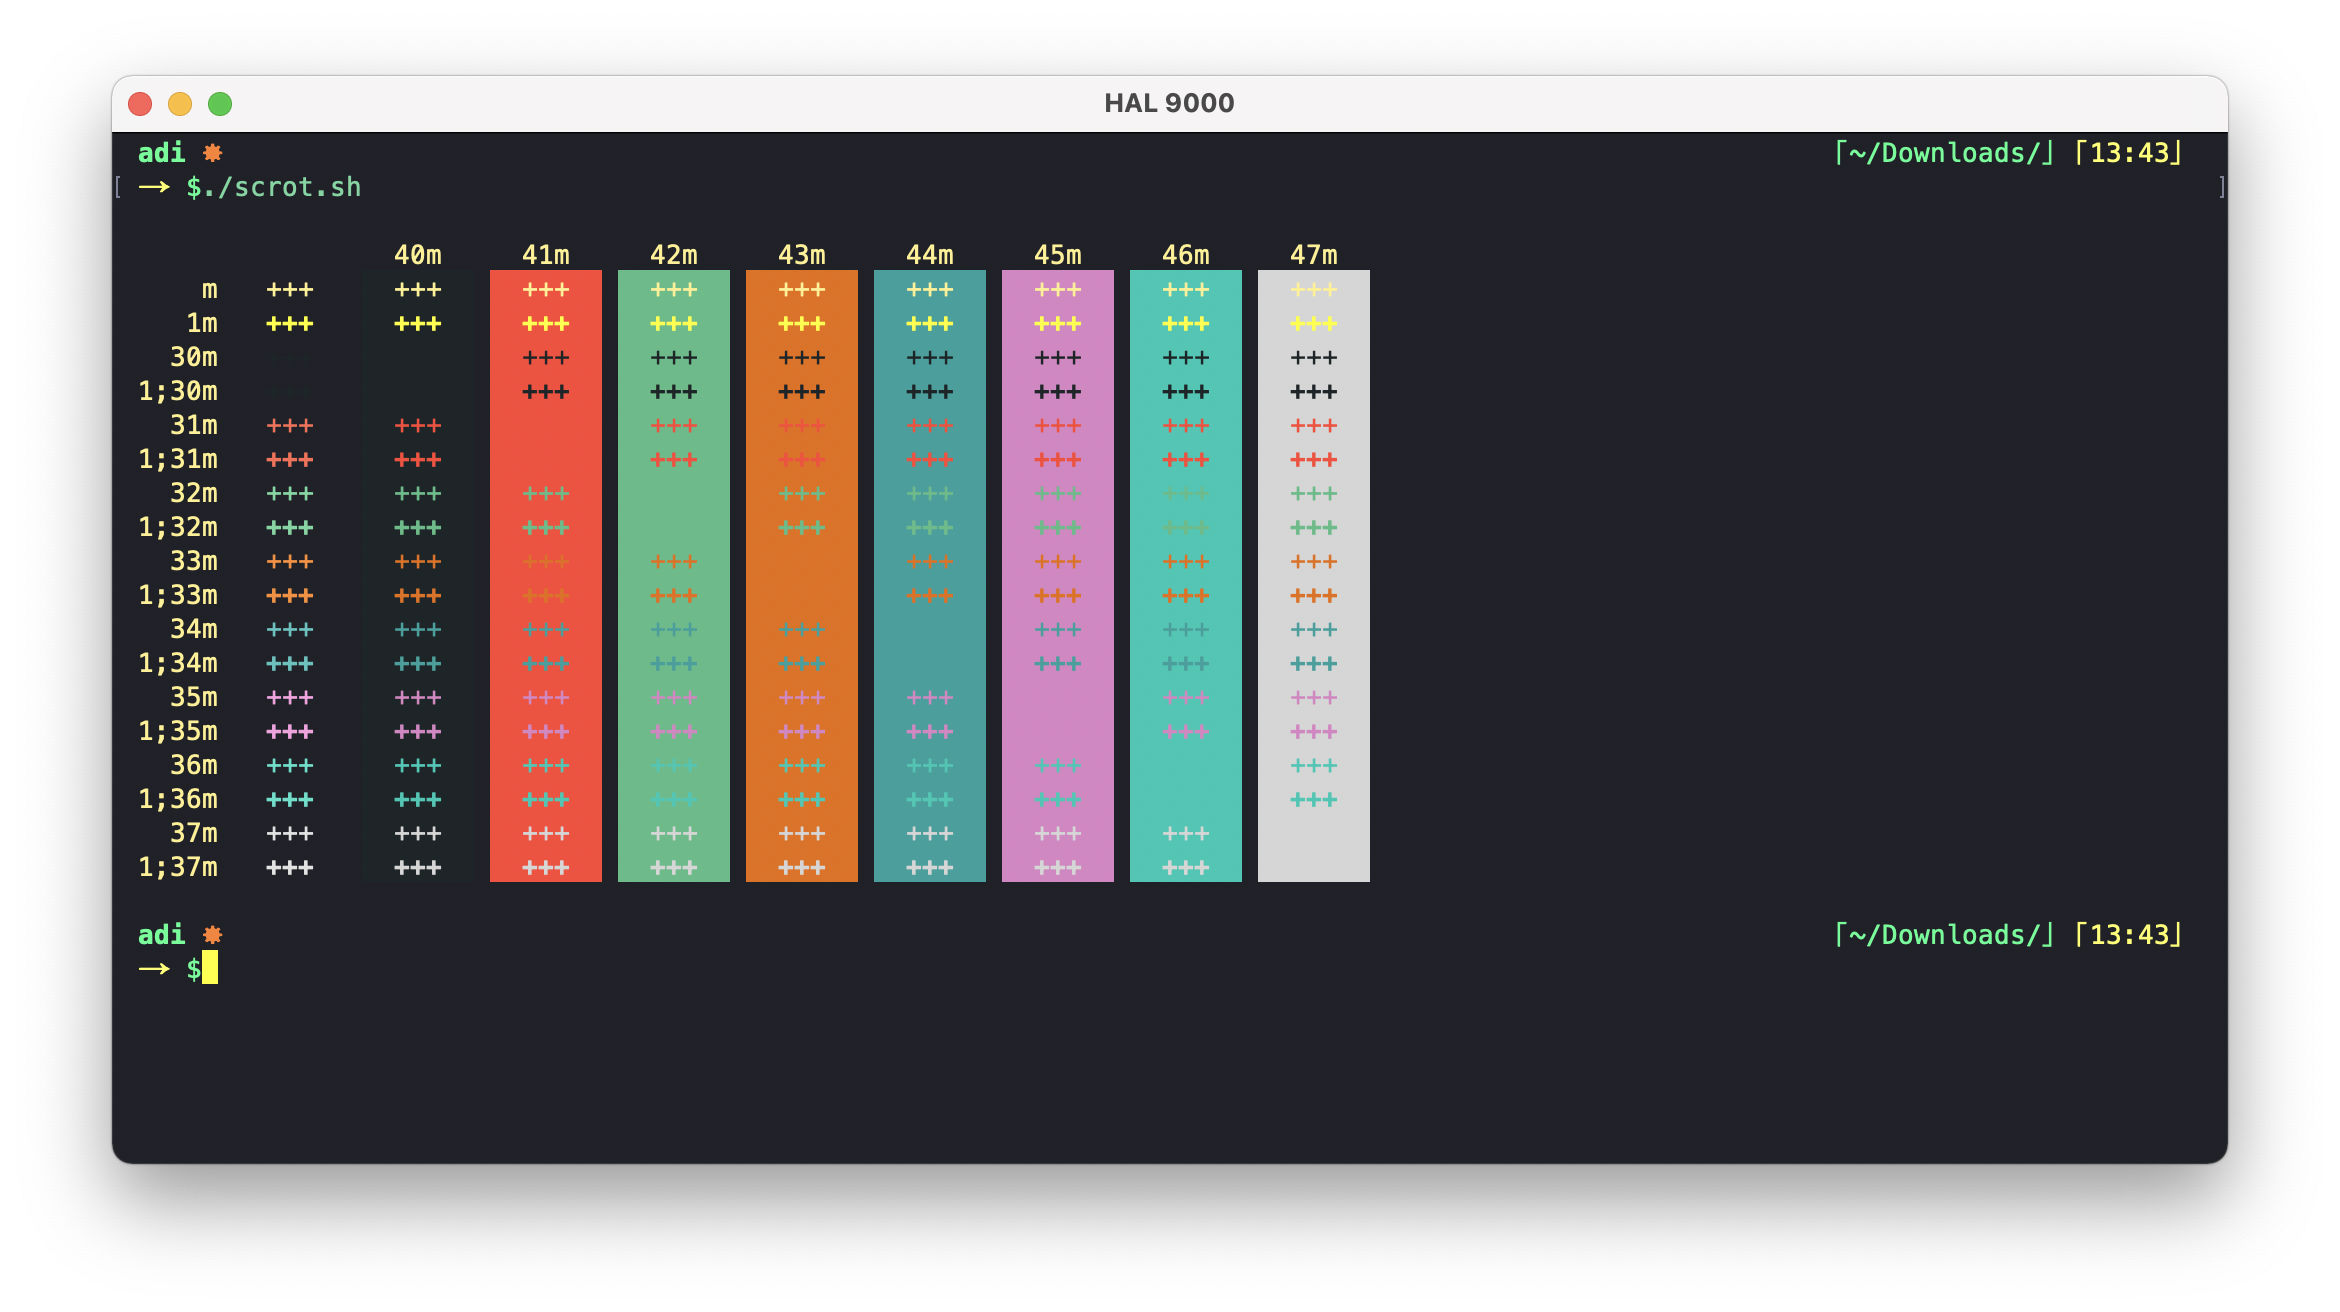
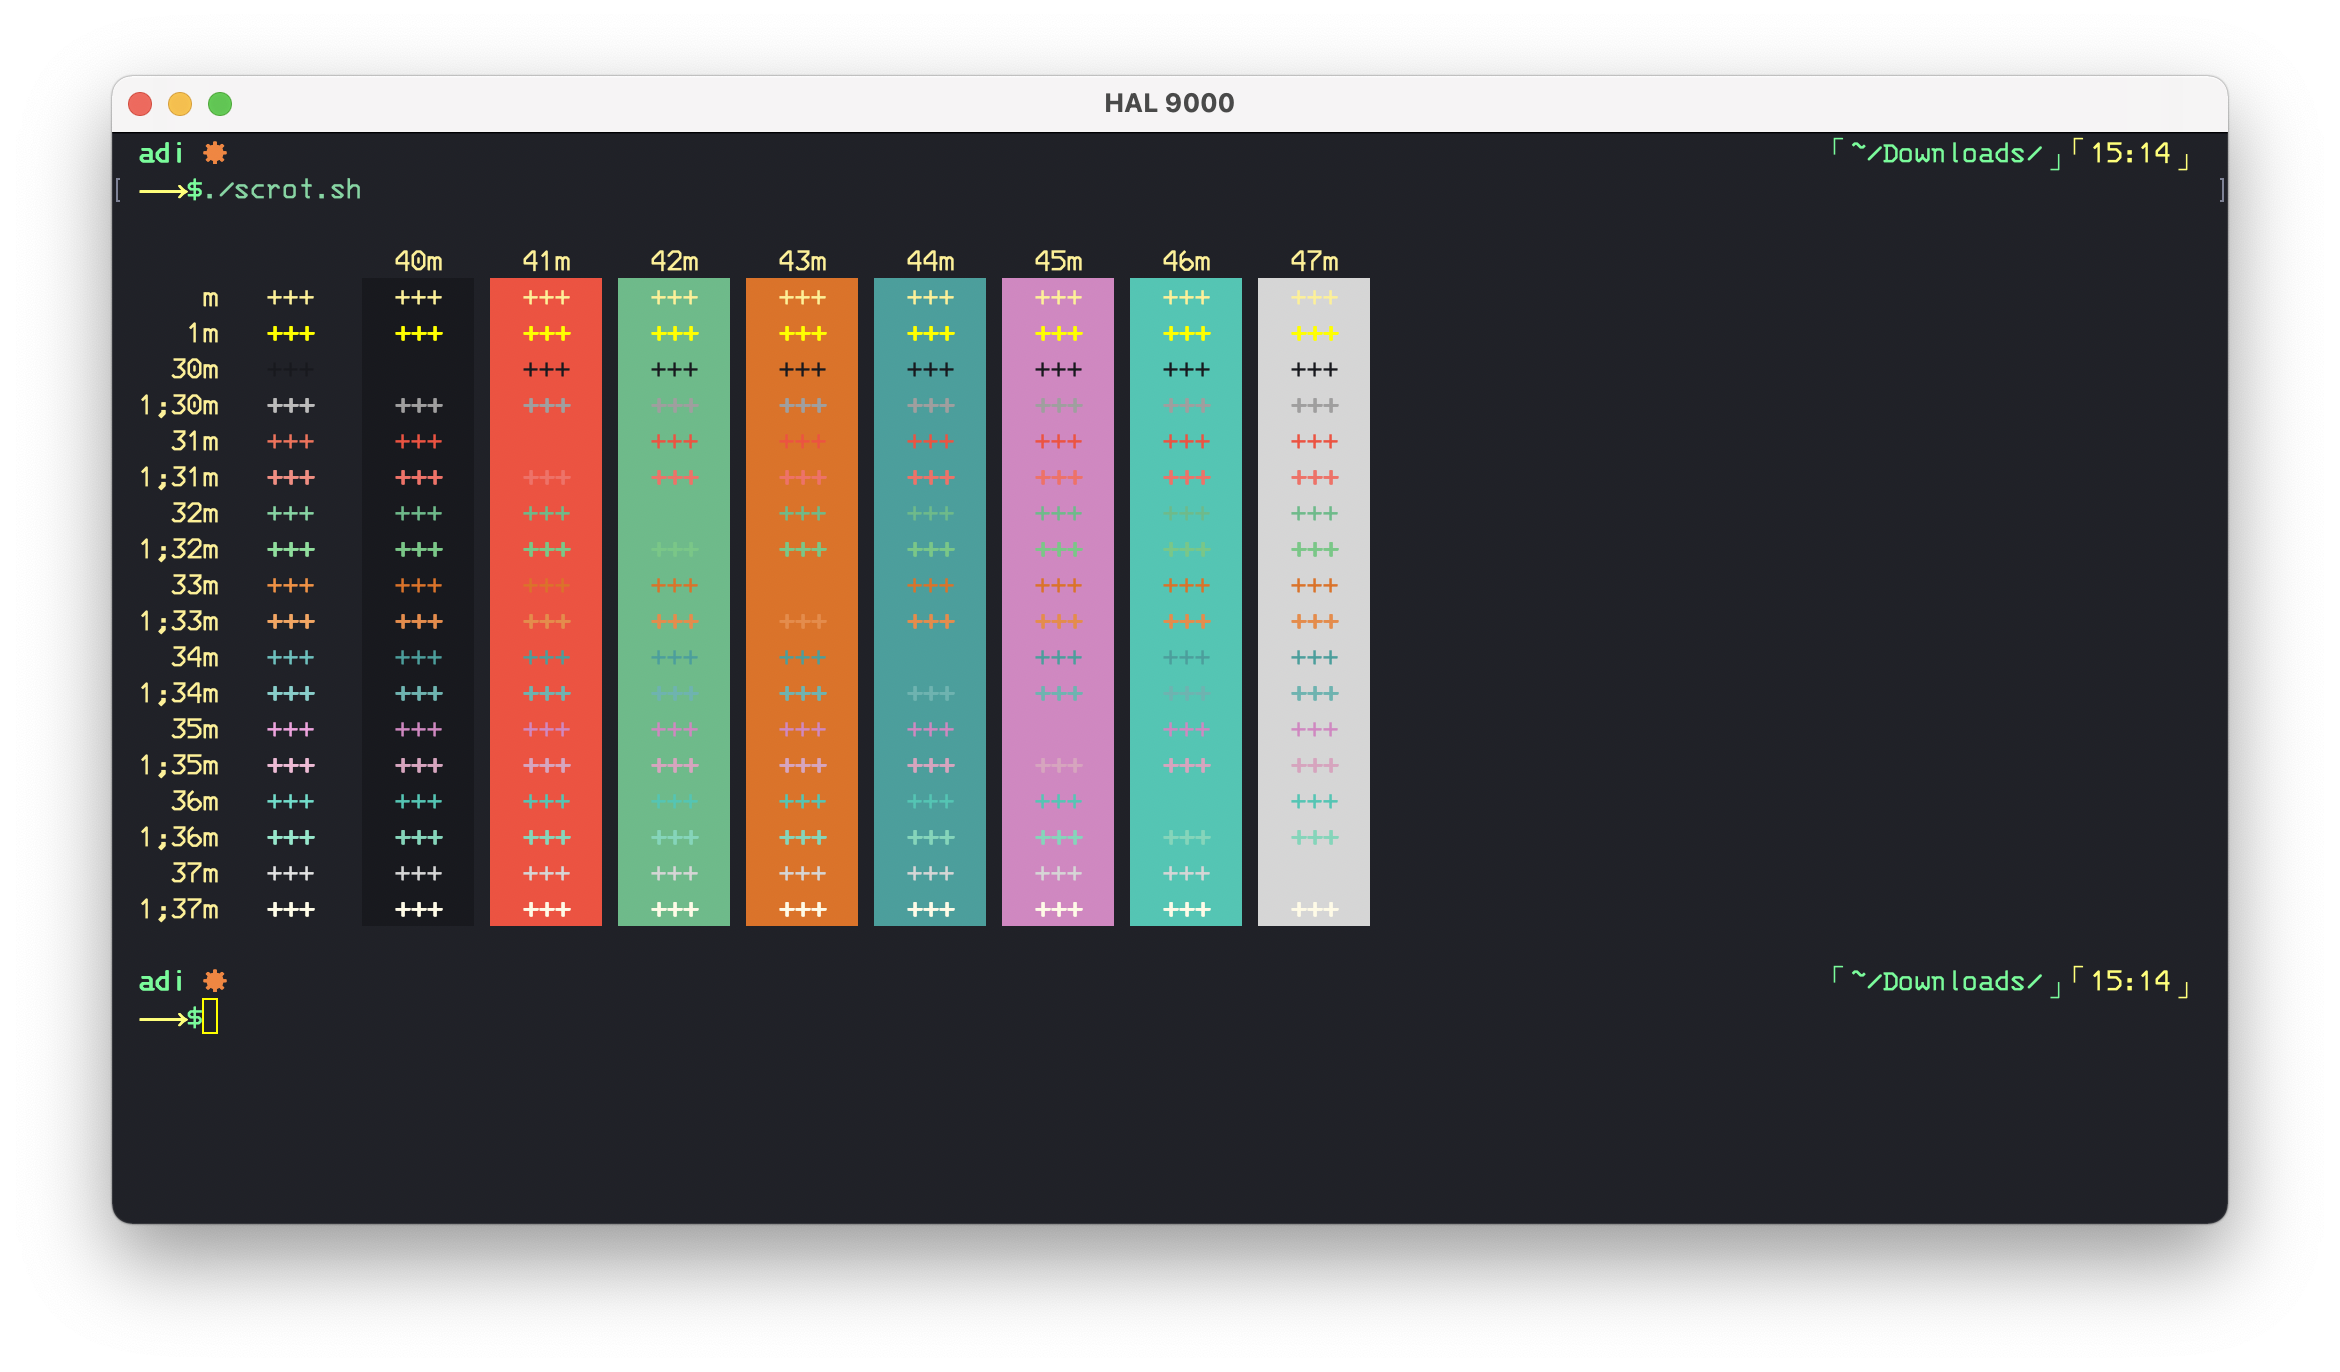
v 1.1.0
Bright Black color edited

diff --git a/README.md b/README.md
@@ -1,8 +1,12 @@
 <p align="center"><img src="https://raw.githubusercontent.com/lighthaus-theme/terminal-app/19bad9098cb9942dd07334535588d67ced584a8a/assets/terminal-app-badge.svg" width="350"><p>
+<p align="center">
+   <a href="https://www.buymeacoffee.com/asirohi"><img alt="Status" src="https://raw.githubusercontent.com/lighthaus-theme/lighthaus-theme/3cc9fd60c69da89f56721ca9048f38709b3dc878/BuyUsACoffee.svg" width="150" height="23">
+</p>
 
 <h2 align="center">Terminal-App Lighthaus</h2
 
 A [Lighthaus](https://github.com/lighthaus-theme/lighthaus) theme for [Terminal-App](https://support.apple.com/en-in/guide/terminal/welcome/mac).
+
 
 ### Table of Contents
 - [Screenshots](#screenshots)
@@ -32,7 +36,7 @@ _For more information refer to the [official project documentation](https://supp
 
 ### Version
 ```vim
-v 1.0.0
+v 1.1.0
 ```
 
 _Lighthaus and all it's projects use [Semantic Versioning](https://semver.org/)._ <br/>

diff --git a/CHANGELOG.md b/CHANGELOG.md
@@ -2,8 +2,12 @@
 
 ### Table of Contents
 - [v1.0.0](#v1.0.0)
+- [v1.1.0](#v1.1.0)
 - [Versioning System](#versioning-system)
 - [License](#license)
+
+### v1.1.0
+- Corrected contrast issue with `bright black`. See [Issue](https://github.com/lighthaus-theme/lighthaus/issues/3) (_01/04/2020_)
 
 ### v1.0.0
 - Initial Commit (_06/09/2020_)
